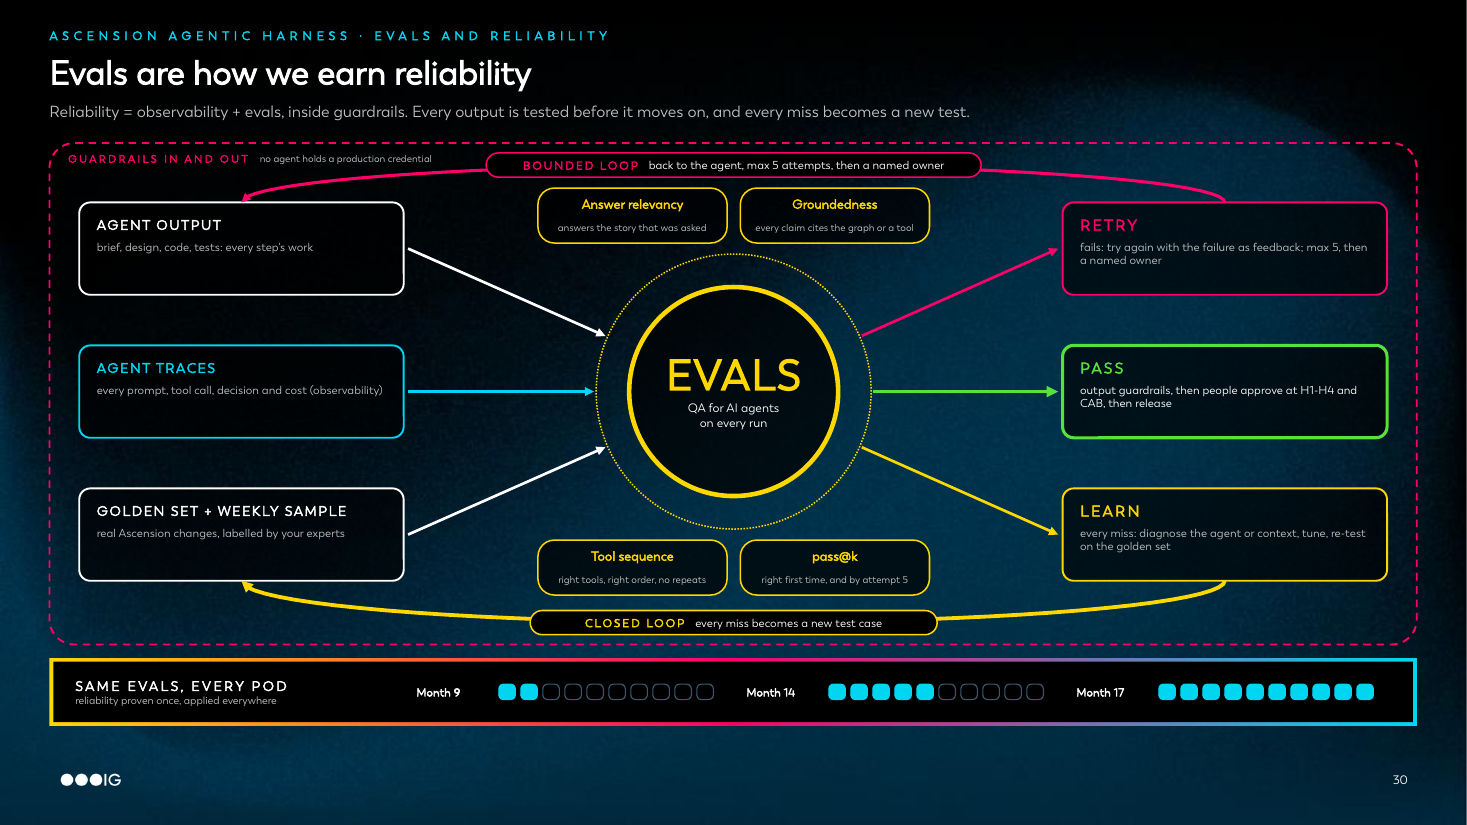
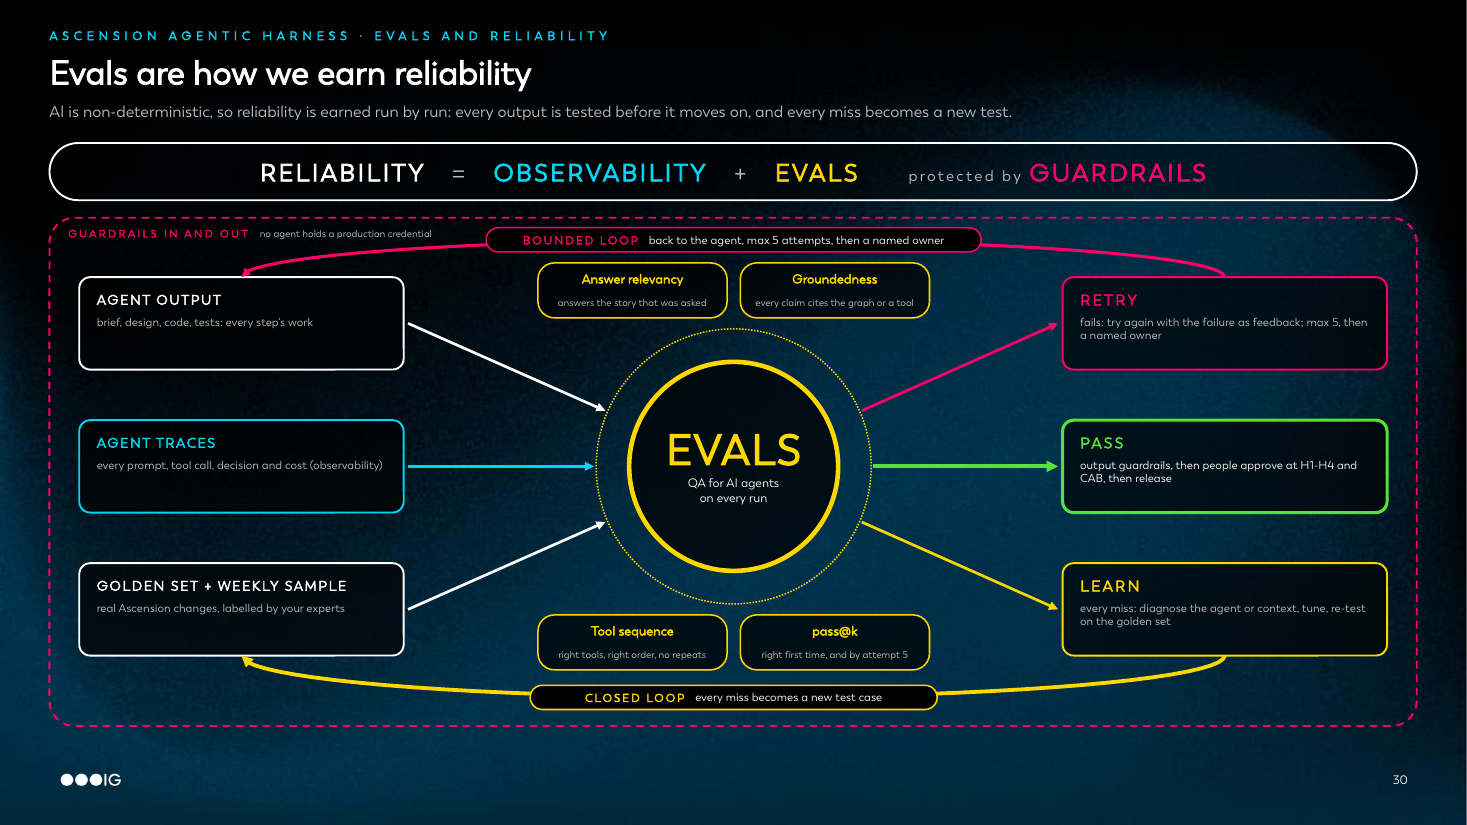
Evals hub preview: formula bar on top, drop the every-pod strip
Claude-Session: https://claude.ai/code/session_01Hf94kqMzSofkkrQm7kpNba

diff --git a/poc/deck/story_slides.py b/poc/deck/story_slides.py
@@ -1937,19 +1937,31 @@ def evals_hub_slide(prs, layout):
     cv = Canvas(s)
     dark_header(cv, "ASCENSION MAD APPROACH · EVALS AND RELIABILITY",
                 "Evals are how we earn reliability",
-                "Reliability = observability + evals, inside guardrails. Every output is tested before it moves on, "
-                "and every miss becomes a new test.")
+                "AI is non-deterministic, so reliability is earned run by run: every output is tested before it "
+                "moves on, and every miss becomes a new test.")
+    # the formula on top
+    X0, W = 0.45, 12.43
+    ey, eh = 1.3, 0.52
+    glass(cv, X0, ey, W, eh, WHITE, alpha=40, radius=0.5)
+    cv.text(X0, ey, W, eh,
+            [[("RELIABILITY", {"bold": True, "color": WHITE}), ("   =   ", {"color": SOFT}),
+              ("OBSERVABILITY", {"bold": True, "color": CYAN}), ("   +   ", {"color": SOFT}),
+              ("EVALS", {"bold": True, "color": YELLOW}),
+              ("        protected by ", {"color": SOFT, "size": 10}),
+              ("GUARDRAILS", {"bold": True, "color": MAGENTA})]],
+            size=16, track=150, align=PP_ALIGN.CENTER, anchor=MSO_ANCHOR.MIDDLE)
+    DY = 0.68                                         # everything below sits under the formula
     # guardrails frame
-    gy0, gy1 = 1.3, 5.86
+    gy0, gy1 = 1.3 + DY, 5.92 + DY
     cv.rect(0.45, gy0, 12.43, gy1 - gy0, None, MAGENTA, 1.25, MSO_SHAPE.ROUNDED_RECTANGLE, 0.05, dash="dash")
     cv.text(0.62, gy0 + 0.04, 4.6, 0.2, [[("GUARDRAILS IN AND OUT  ", {"bold": True, "color": MAGENTA, "track": 150}),
                                           ("no agent holds a production credential", {"color": SOFT, "size": 6.5})]],
             size=7, anchor=MSO_ANCHOR.MIDDLE)
-    hx, hy, hr = 6.67, 3.56, 0.95
+    hx, hy, hr = 6.67, 3.56 + DY, 0.95
     # side cards
     cw, chh = 2.95, 0.84
     lx, rx = 0.72, 12.88 - 0.27 - cw
-    ys = [1.84, 3.14, 4.44]
+    ys = [1.84 + DY, 3.14 + DY, 4.44 + DY]
     for i, (t, col, d) in enumerate(EV_IN):
         glass(cv, lx, ys[i], cw, chh, col, alpha=65, radius=0.12)
         cv.text(lx + 0.16, ys[i] + 0.08, cw - 0.3, 0.24, t, size=9, bold=True, color=col, track=100,
@@ -1988,10 +2000,10 @@ def evals_hub_slide(prs, layout):
         cv.text(px + 0.06, py + 0.25, pw - 0.12, 0.22, d, size=6.5, color=SOFT, align=PP_ALIGN.CENTER,
                 anchor=MSO_ANCHOR.MIDDLE)
     # the two loops: retry over the top, learning underneath
-    _arc(cv, rx + cw / 2, lx + cw / 2, ys[0], 1.5, MAGENTA, 2.0)
-    cv.rect(hx - 2.25, 1.39, 4.5, 0.22, fill=BLACK, line=MAGENTA, lw=1.0,
+    _arc(cv, rx + cw / 2, lx + cw / 2, ys[0], 1.5 + DY, MAGENTA, 2.0)
+    cv.rect(hx - 2.25, 1.39 + DY, 4.5, 0.22, fill=BLACK, line=MAGENTA, lw=1.0,
             shape=MSO_SHAPE.ROUNDED_RECTANGLE, radius=0.5)
-    cv.text(hx - 2.4, 1.39, 4.8, 0.22, [[("BOUNDED LOOP  ", {"bold": True, "color": MAGENTA, "track": 120}),
+    cv.text(hx - 2.4, 1.39 + DY, 4.8, 0.22, [[("BOUNDED LOOP  ", {"bold": True, "color": MAGENTA, "track": 120}),
                                        ("back to the agent, max 5 attempts, then a named owner",
                                         {"color": WHITE})]], size=7.5, align=PP_ALIGN.CENTER,
             anchor=MSO_ANCHOR.MIDDLE)
@@ -2002,20 +2014,6 @@ def evals_hub_slide(prs, layout):
     cv.text(hx - 2.6, yb + 0.27, 5.2, 0.22, [[("CLOSED LOOP  ", {"bold": True, "color": YELLOW, "track": 120}),
                                             ("every miss becomes a new test case", {"color": WHITE})]],
             size=7.5, align=PP_ALIGN.CENTER, anchor=MSO_ANCHOR.MIDDLE)
-    # scale strip
-    sy, sh = 5.98, 0.62
-    fx, fy, fw, fh = cv.frame(0.45, sy, 12.43, sh, BLACK, 0.035)
-    cv.text(fx + 0.2, fy, 3.0, fh, [[("SAME EVALS, EVERY POD", {"bold": True, "color": WHITE, "track": 150})],
-                                    [("reliability proven once, applied everywhere", {"color": SOFT, "size": 7})]],
-            size=9, anchor=MSO_ANCHOR.MIDDLE)
-    x = fx + 3.3
-    for when, lit in (("Month 9", 2), ("Month 14", 5), ("Month 17", 10)):
-        cv.text(x, fy, 0.75, fh, when, size=7.5, bold=True, color=WHITE, anchor=MSO_ANCHOR.MIDDLE)
-        for k in range(10):
-            on = k < lit
-            cv.rect(x + 0.75 + k * 0.2, fy + fh / 2 - 0.07, 0.15, 0.14, CYAN if on else None,
-                    CYAN if on else "3A5A70", 0.75, MSO_SHAPE.ROUNDED_RECTANGLE, 0.3)
-        x += 3.0
     dark_footer(s)
     set_notes(s, EVALS_HUB_NOTES)
     return s
@@ -2046,4 +2044,4 @@ Outcomes (right):
 
 Around it all, guardrails in and out: harmful prompts and injection blocked, patient data redacted, no agent with a production credential, and agents can never edit tests or the evaluation set.
 
-Bottom strip: the same evals gate every pod, from the two pilot pods at month 9 to every pod at month 17. Reliability is proven once and applied everywhere."""
+Top bar, the formula: reliability = observability (the traces) + evals (the engine in the centre), protected by guardrails (the frame around it)."""
